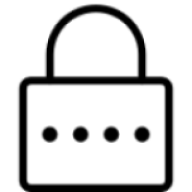
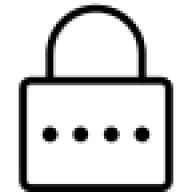
PWA

diff --git a/index.html b/index.html
@@ -5,10 +5,11 @@
     <meta charset="UTF-8">
     <meta http-equiv="X-UA-Compatible" content="IE=edge">
     <meta name="viewport" content="width=device-width, initial-scale=1.0">
+    <link rel="shortcut icon" href="./password (4).png">
     <title>Password Generator</title>
     <link rel="stylesheet" href="./style.css">
     <link rel="manifest" href="./manifest.json">
-    <link rel="apple-touch-icon" href="./password (3).png">
+    <link rel="apple-touch-icon" href="./password (2).png">
     <meta name="apple-mobile-web-app-status-bar" content="white">
     <meta http-equiv="X-UA-Compatible" content="ie=edge">
     <meta name="theme-color" content="white">
